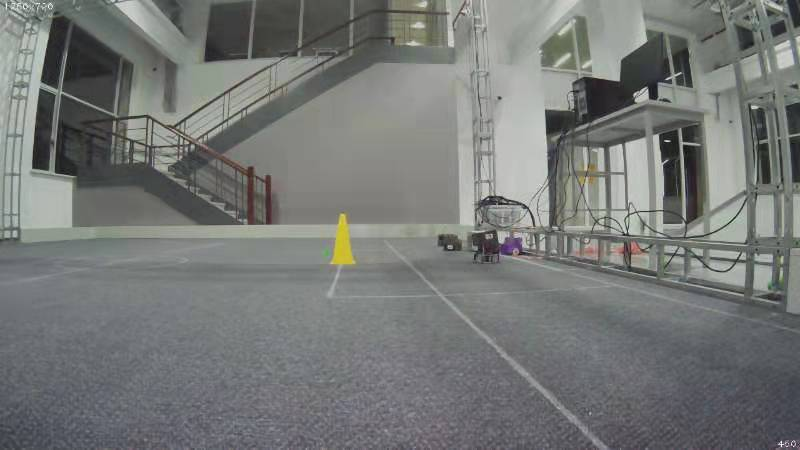
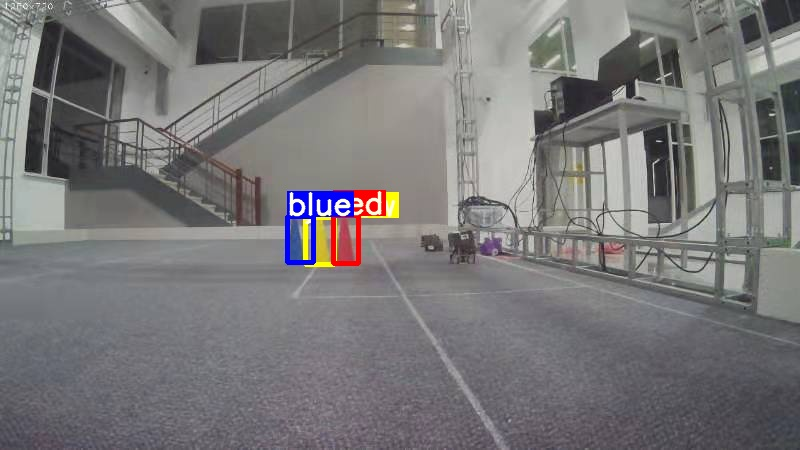
network on yolov3

diff --git a/README.md b/README.md
@@ -41,9 +41,10 @@ As is shown above, after transforming to another impletation and modifying param
 
 As for speed, testing single images(not video stream) **on 1080Ti is about 60 fps**. Haven't tested on tx2 yet. To accelerate, consider tiny-yolov3 or turn down the input size.
 
-The model just detects traffic cone, regardless of its color. So for each cone detected, we extract the half bottom of the bounding box's perpendicular and calculate its average RGB value, and decide which color the cone is(red, green, blue, yellow, dontknow). It only works well for standing cones, inclination or white reflective tape may affect accuracy. And mapping from sampling RGB to color name also depends on color and shape of cones in actual games. 
-
 ![text](imgs/11.jpg)![text](imgs/12.jpg)![text](imgs/13.jpg)
+
+In addition, the model just detects traffic cone, regardless of its color. So for each cone detected, we extract the half bottom of the bounding box's perpendicular and calculate its average RGB value, and decide which color the cone is(red, green, blue, yellow, dontknow). It only works well for standing cones, inclination or white reflective tape may affect accuracy. And mapping from sampling RGB to color name also depends on color and shape of cones in actual games. Counter-example like:![text](imgs/14.jpg)
+
 
 ## 4.Have a Try!
 + Test: 
